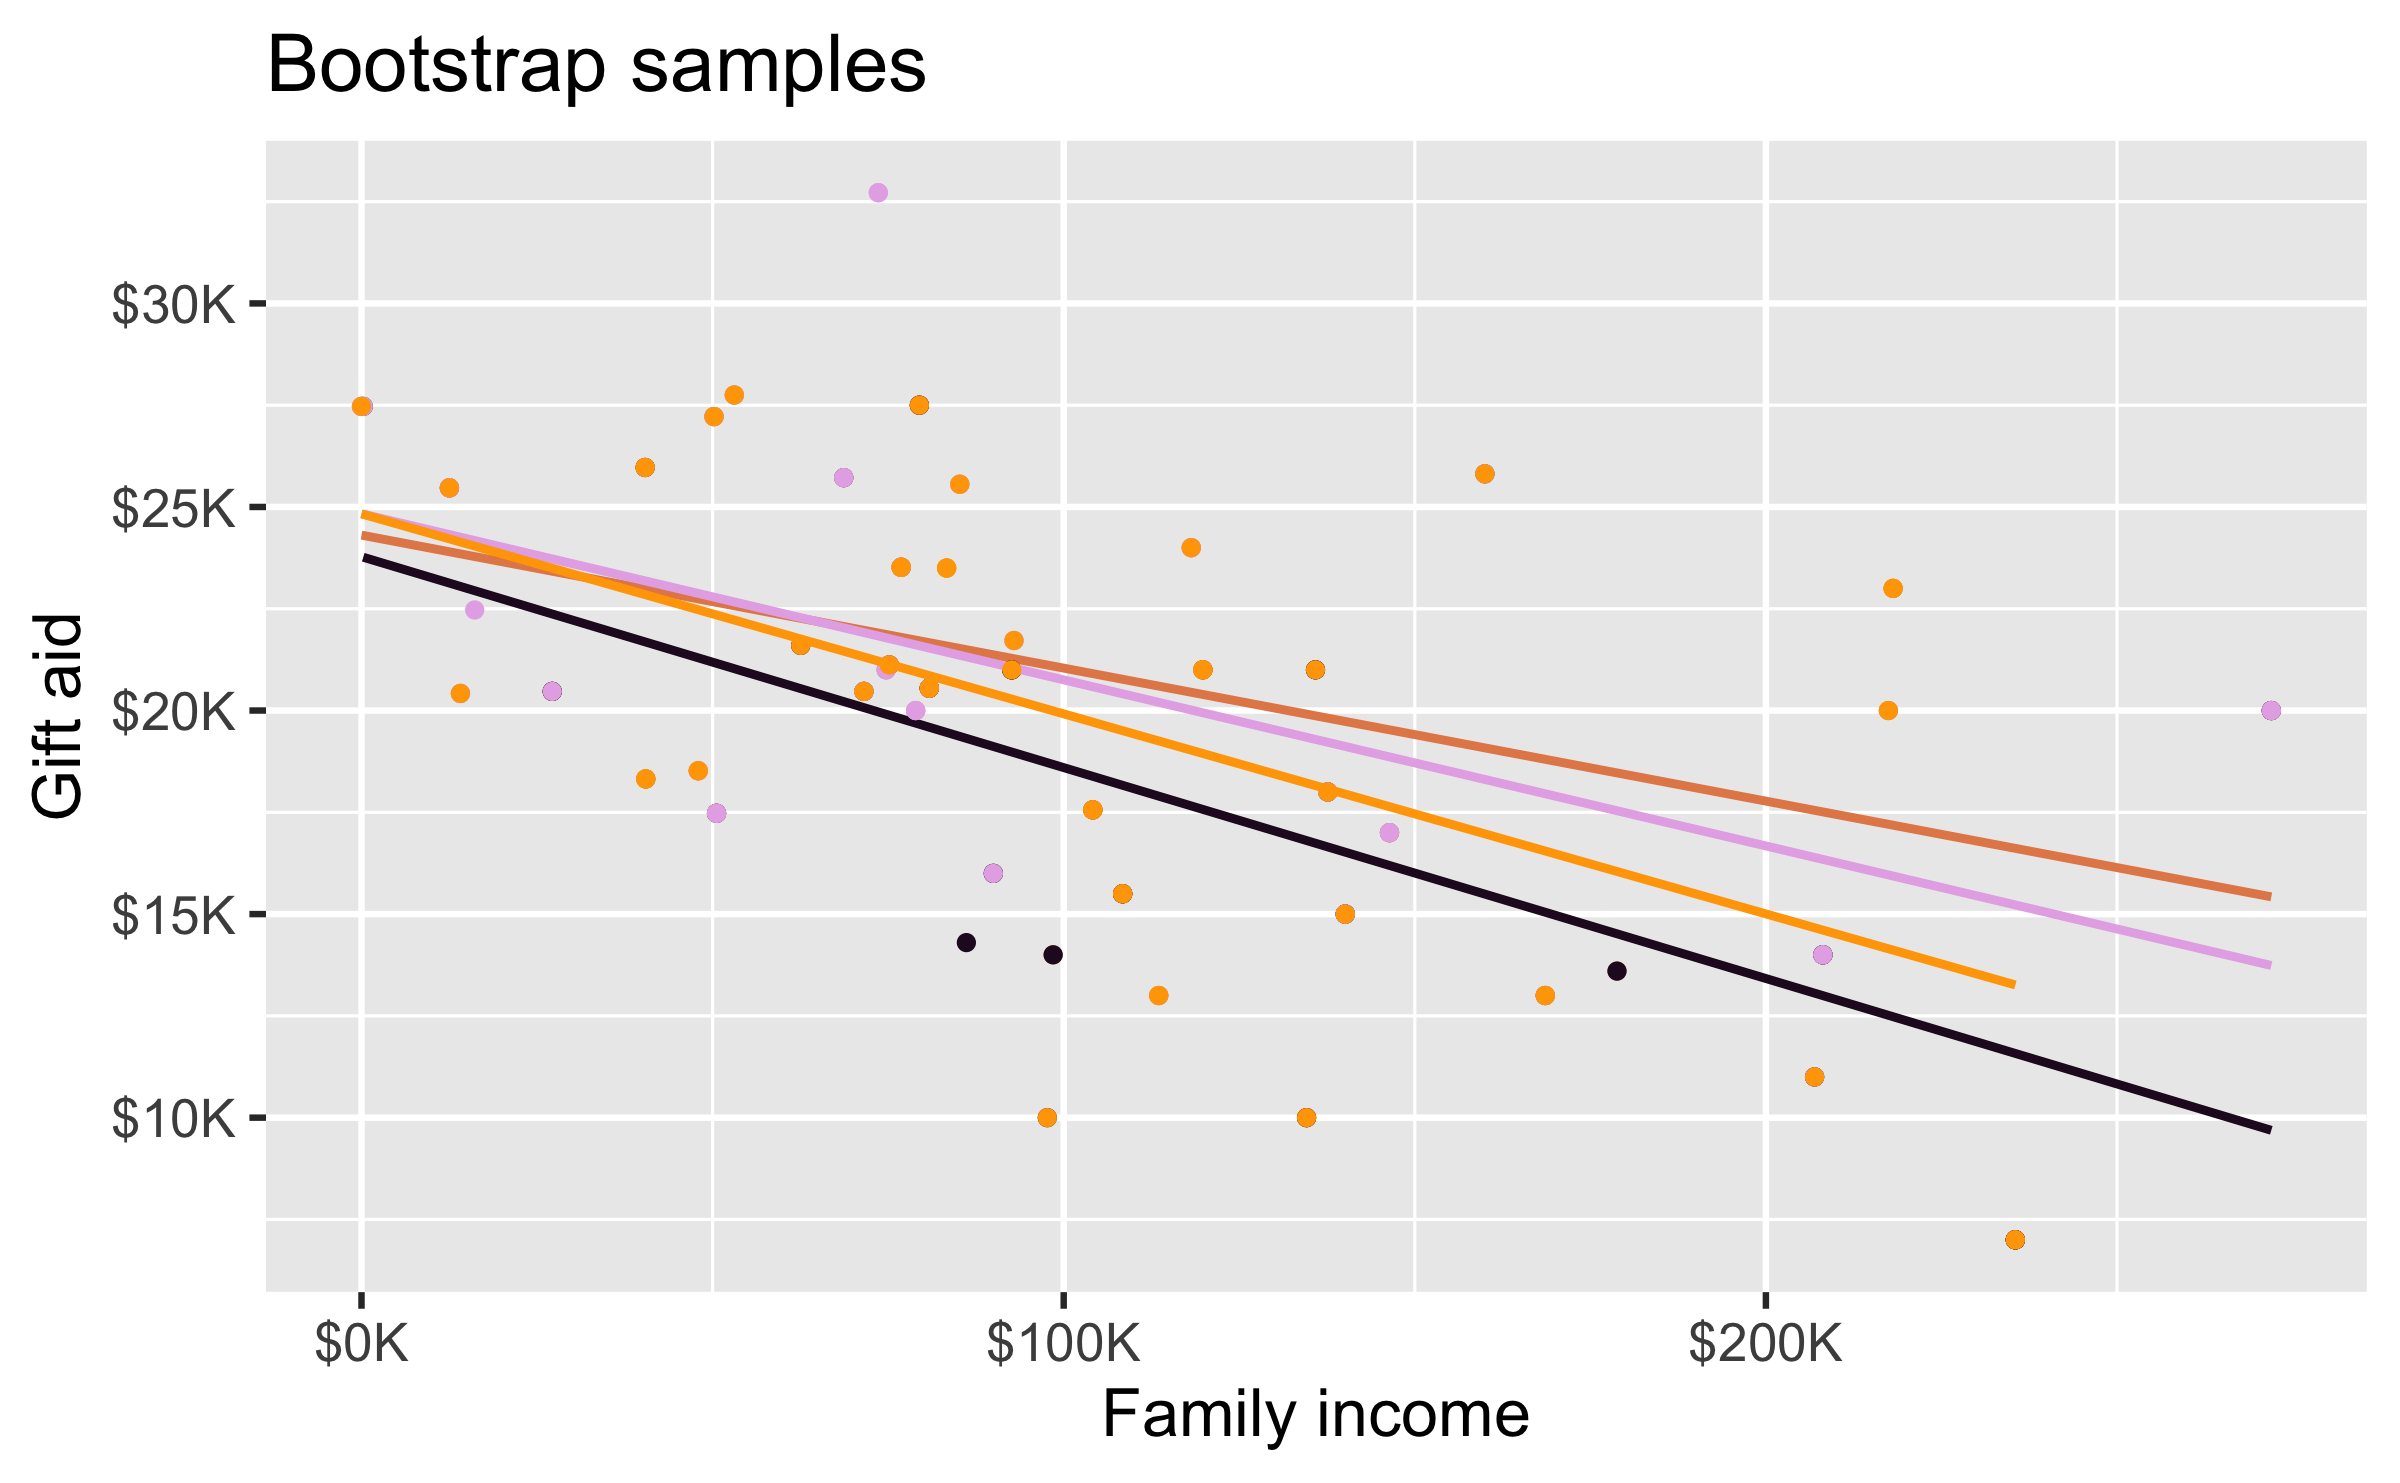
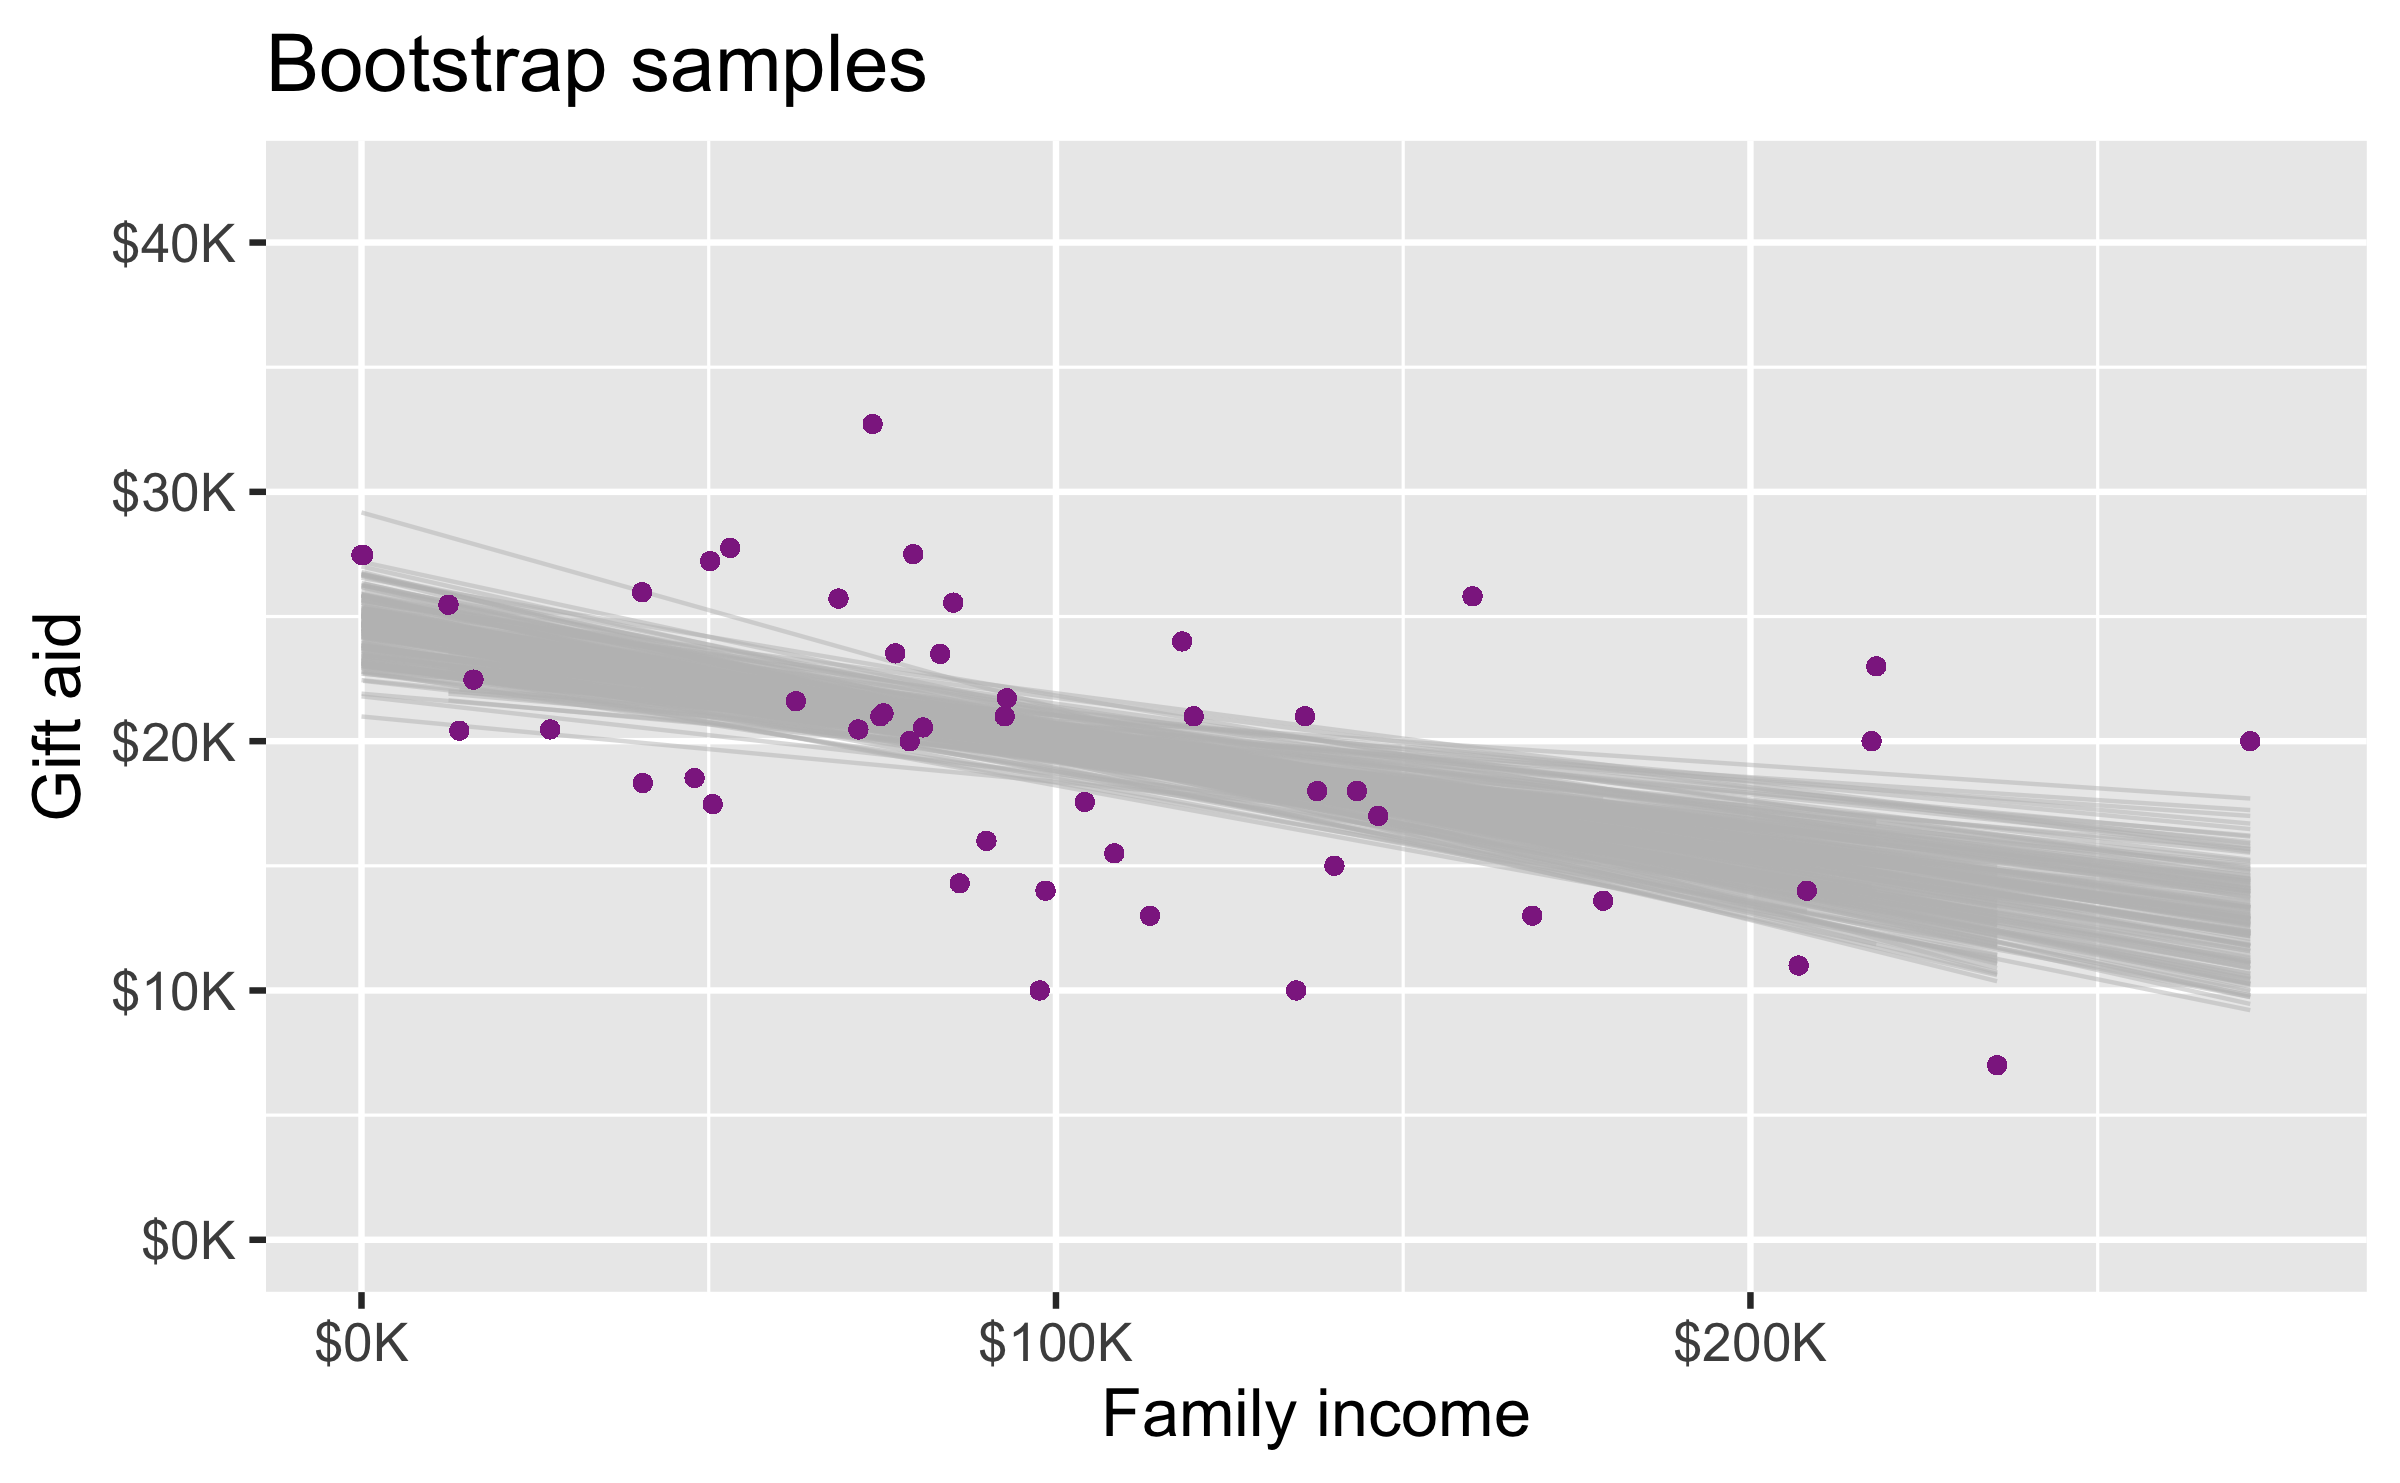
LAst edits

diff --git a/week-10/w10-d04-quantify-uncertainty/w10-d04-quantify-uncertainty.html b/week-10/w10-d04-quantify-uncertainty/w10-d04-quantify-uncertainty.html
@@ -109,27 +109,11 @@ For each additional $1,000 of family income, we would expect students to receive
 
 ---
 
-## Uncertainty in estimates
+class: middle
 
-.panelset[
-.panel[.panel-name[Plot]
-&lt;img src="w10-d04-quantify-uncertainty_files/figure-html/unnamed-chunk-6-1.png" width="60%" style="display: block; margin: auto;" /&gt;
-]
-.panel[.panel-name[Code]
-
-```r
-ggplot(elmhurst, aes(x = family_income, y = gift_aid)) +
-  geom_point(color = "#8E2C90", size = 2) +
-  geom_smooth(method = "lm", color = "#8E2C90") +
-  scale_x_continuous(labels = label_dollar(suffix = "K")) + 
-  scale_y_continuous(labels = label_dollar(suffix = "K")) +
-  labs(
-    x = "Family income",
-    y = "Gift aid",
-    title = "Gift aid and family income",
-    subtitle = "Random sample 50 students at Elmhurst College"
-  )
-```
+.hand[
+.light-blue[
+exactly $43.10 for all students at this school?!
 ]
 ]
 
@@ -141,8 +125,9 @@ class: middle
 
 ---
 
-- Statistical inference is the process of using sample data to make conclusions about the underlying population the sample came from.
-- Similar to tasting a spoonful of soup while cooking to make an inference about the entire pot.
+## Statistical inference 
+
+... is the process of using sample data to make conclusions about the underlying population the sample came from
 
 &lt;img src="img/photo-1571942676516-bcab84649e44.png" width="60%" style="display: block; margin: auto;" /&gt;
 
@@ -179,8 +164,8 @@ If you want to estimate a population parameter, do you prefer to report a range 
 
 --
 
-- If we report a point estimate, we probably won’t hit the exact population parameter.
-- If we report a range of plausible values we have a good shot at capturing the parameter.
+- If we report a point estimate, we probably won’t hit the exact population parameter
+- If we report a range of plausible values we have a good shot at capturing the parameter
 
 ---
 
@@ -280,7 +265,7 @@ class: middle
 
 ## Observed sample
 
-&lt;img src="w10-d04-quantify-uncertainty_files/figure-html/unnamed-chunk-12-1.png" width="60%" style="display: block; margin: auto;" /&gt;
+&lt;img src="w10-d04-quantify-uncertainty_files/figure-html/unnamed-chunk-11-1.png" width="60%" style="display: block; margin: auto;" /&gt;
 
 ---
 
@@ -288,15 +273,21 @@ class: middle
 
 Generated assuming there are more students like the ones in the observed sample...
 
-&lt;img src="w10-d04-quantify-uncertainty_files/figure-html/unnamed-chunk-13-1.png" width="60%" style="display: block; margin: auto;" /&gt;
+&lt;img src="w10-d04-quantify-uncertainty_files/figure-html/unnamed-chunk-12-1.png" width="60%" style="display: block; margin: auto;" /&gt;
 
 ---
 
 ## Bootstrapping scheme
 
 1. Take a bootstrap sample - a random sample taken **with replacement** from the original sample, of the same size as the original sample
+
+--
 2. Calculate the bootstrap statistic - a statistic such as mean, median, proportion, slope, etc. computed on the bootstrap samples
+
+--
 3. Repeat steps (1) and (2) many times to create a bootstrap distribution - a distribution of bootstrap statistics
+
+--
 4. Calculate the bounds of the XX% confidence interval as the middle XX% of the bootstrap distribution
 
 ---
@@ -310,7 +301,7 @@ elmhurtst_boot_1 &lt;- elmhurst %&gt;%
 ```
 
 
-&lt;img src="w10-d04-quantify-uncertainty_files/figure-html/unnamed-chunk-15-1.png" width="60%" style="display: block; margin: auto;" /&gt;
+&lt;img src="w10-d04-quantify-uncertainty_files/figure-html/unnamed-chunk-14-1.png" width="60%" style="display: block; margin: auto;" /&gt;
 
 ---
 
@@ -323,7 +314,7 @@ elmhurtst_boot_2 &lt;- elmhurst %&gt;%
 ```
 
 
-&lt;img src="w10-d04-quantify-uncertainty_files/figure-html/unnamed-chunk-17-1.png" width="60%" style="display: block; margin: auto;" /&gt;
+&lt;img src="w10-d04-quantify-uncertainty_files/figure-html/unnamed-chunk-16-1.png" width="60%" style="display: block; margin: auto;" /&gt;
 
 ---
 
@@ -336,7 +327,7 @@ elmhurtst_boot_3 &lt;- elmhurst %&gt;%
 ```
 
 
-&lt;img src="w10-d04-quantify-uncertainty_files/figure-html/unnamed-chunk-19-1.png" width="60%" style="display: block; margin: auto;" /&gt;
+&lt;img src="w10-d04-quantify-uncertainty_files/figure-html/unnamed-chunk-18-1.png" width="60%" style="display: block; margin: auto;" /&gt;
 
 ---
 
@@ -349,13 +340,13 @@ elmhurtst_boot_4 &lt;- elmhurst %&gt;%
 ```
 
 
-&lt;img src="w10-d04-quantify-uncertainty_files/figure-html/unnamed-chunk-21-1.png" width="60%" style="display: block; margin: auto;" /&gt;
+&lt;img src="w10-d04-quantify-uncertainty_files/figure-html/unnamed-chunk-20-1.png" width="60%" style="display: block; margin: auto;" /&gt;
 
 ---
 
 ## Bootstrap samples 1 - 4
 
-&lt;img src="w10-d04-quantify-uncertainty_files/figure-html/unnamed-chunk-22-1.png" width="60%" style="display: block; margin: auto;" /&gt;
+&lt;img src="w10-d04-quantify-uncertainty_files/figure-html/unnamed-chunk-21-1.png" width="60%" style="display: block; margin: auto;" /&gt;
 
 ---
 
@@ -371,19 +362,19 @@ we could keep going...
 
 ## Many many samples...
 
-&lt;img src="w10-d04-quantify-uncertainty_files/figure-html/unnamed-chunk-23-1.png" width="60%" style="display: block; margin: auto;" /&gt;
+&lt;img src="w10-d04-quantify-uncertainty_files/figure-html/unnamed-chunk-22-1.png" width="60%" style="display: block; margin: auto;" /&gt;
 
 ---
 
 ## Slopes of bootstrap samples
 
-&lt;img src="w10-d04-quantify-uncertainty_files/figure-html/unnamed-chunk-24-1.png" width="60%" style="display: block; margin: auto;" /&gt;
+&lt;img src="w10-d04-quantify-uncertainty_files/figure-html/unnamed-chunk-23-1.png" width="60%" style="display: block; margin: auto;" /&gt;
 
 ---
 
 ## 95% confidence interval
 
-&lt;img src="w10-d04-quantify-uncertainty_files/figure-html/unnamed-chunk-25-1.png" width="60%" style="display: block; margin: auto;" /&gt;
+&lt;img src="w10-d04-quantify-uncertainty_files/figure-html/unnamed-chunk-24-1.png" width="60%" style="display: block; margin: auto;" /&gt;
 
 ---
 
